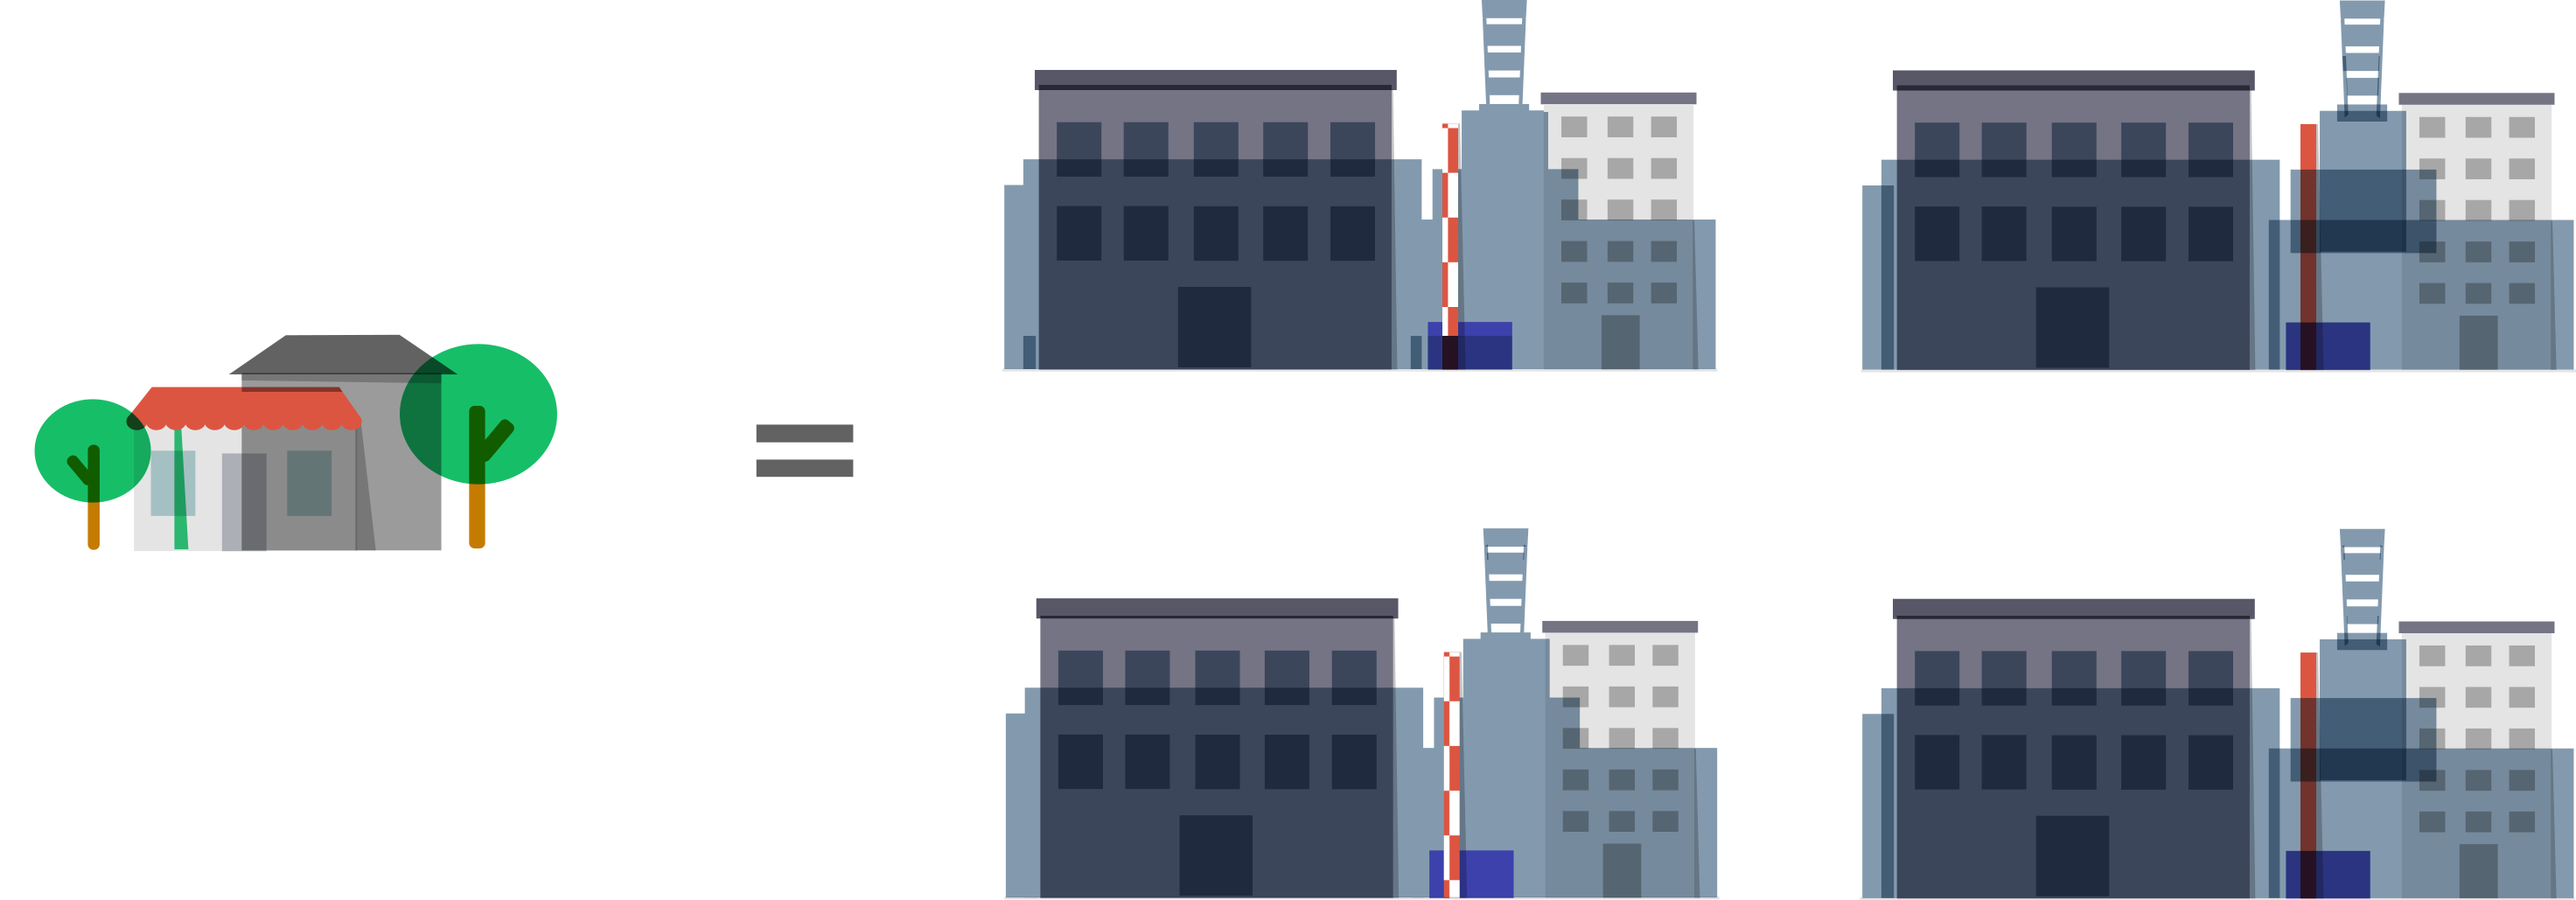
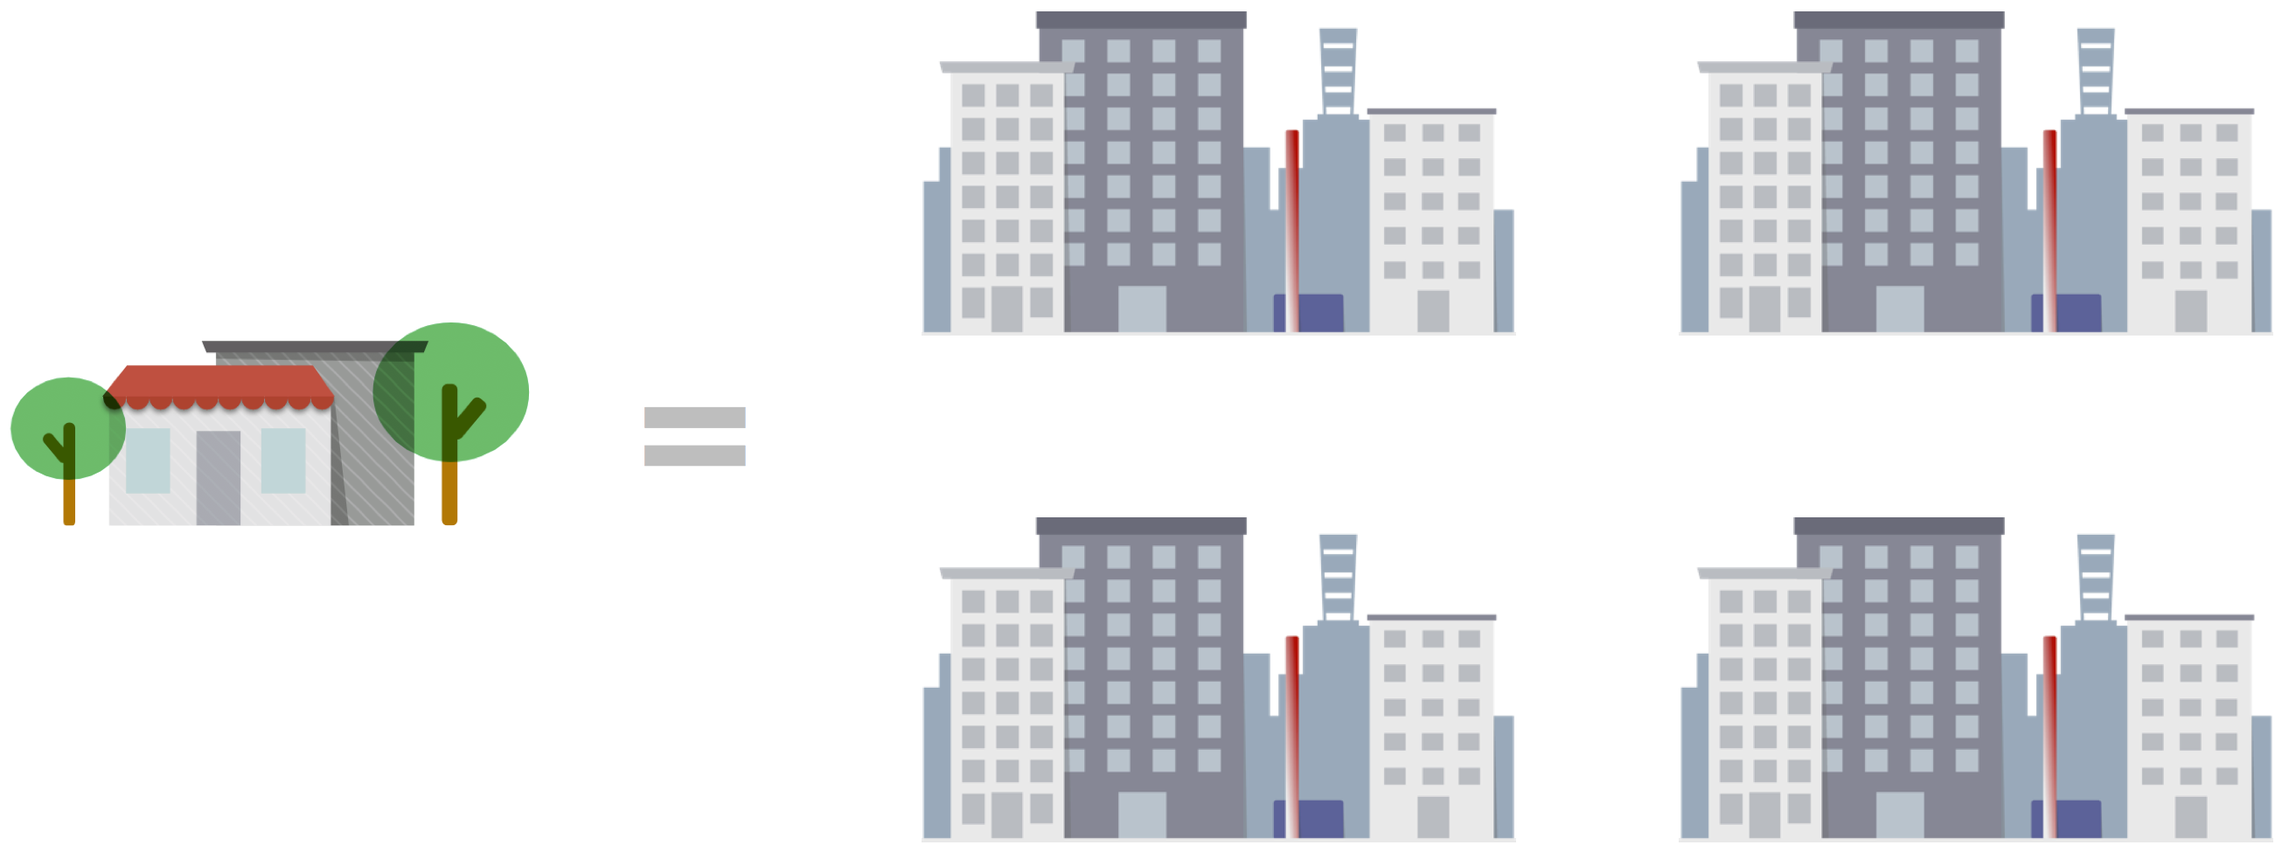
image replacements and minor layout tweaks

diff --git a/TheGhetto.html b/TheGhetto.html
@@ -88,7 +88,7 @@
 
 			<div class="intro pa0 mv4 mh0">
 				
-				<div class="opening-statement tc-ns lh-title pa0 ma0">
+				<div class="opening-statement center measure-wide lh-title pa0 ma0">
 					<h2 class="f4 f2-ns pa0 ma0">
 						Who makes a neighborhood ghetto?
 					</h2>
@@ -108,7 +108,7 @@
 				
 				<div class="bg-light-gray pa4 pv4-ns mh0 mh5-ns mv4">
 					<div class="lh-copy center measure-wide ">
-						<p class="f4 f3-ns pa0 pv2-ns ma0">
+						<p class="tc f4 f3-ns pa0 pv2-ns ma0">
 							A typical reason for the lack in public investment is a lack of money.
 						</p>
 					</div>
@@ -169,7 +169,7 @@
 				</div>
 				<img src="images/FourDowntowns.png"
 						 alt="A graphic of 1 South of Downtown neighborhood next to 4 Downtowns" 
-						 class="w-100 mb3">
+						 class="w-100 pt4 mb3">
 			</div>
 
 			<div class="outro pa0 mv4 mh0">
@@ -180,7 +180,7 @@
 					</h1>
 				</div>
 
-				<div class="opening-statement tc-ns lh-copy pa0 ma0">
+				<div class="opening-statement center measure-wide lh-copy pa0 ma0">
 					<h2 class="f4 f2-ns pa0 ma0">
 						The residents’ return on investment?
 					</h2>
@@ -194,7 +194,7 @@
 				
 				<div class="bg-light-gray pa4 pv4-ns mh0 mh5-ns mv4">
 					<div class="lh-copy center measure-wide ">
-						<p class="f4 f3-ns pa0 pv2-ns ma0">
+						<p class="tc f4 f3-ns pa0 pv2-ns ma0">
 							Despite the lack of mega-projects, private investments are still being made South of Downtown.
 						</p>
 					</div>
@@ -251,7 +251,7 @@
 		<div class="center pa0 ma0">
 			
 			<div class="tc pv0 ma0">
-				<p class="link b f4 f3-ns fw4 tracked mid-gray dim ma0 pa0">LIFE South of Downtown</p>
+				<p class="link b f4 f3-ns fw4 tracked mid-gray ma0 pa0">LIFE South of Downtown</p>
 			</div>
 			
 			<div class="tc pa0 mv3 mh0">

diff --git a/TheCrime.html b/TheCrime.html
@@ -202,7 +202,7 @@
 					</h1>
 				</div>
 				
-				<div class="opening-statement tc-ns lh-title pa0 ma0">
+				<div class="opening-statement center measure-wide lh-title pa0 ma0">
 					<h2 class="f4 f2-ns pa0 ma0">
 						Perception is the problem, not crime.
 					</h2>
@@ -274,7 +274,7 @@
 		<div class="center pa0 ma0">
 			
 			<div class="tc pv0 ma0">
-				<p class="link b f4 f3-ns fw4 tracked mid-gray dim ma0 pa0">LIFE South of Downtown</p>
+				<p class="link b f4 f3-ns fw4 tracked mid-gray ma0 pa0">LIFE South of Downtown</p>
 			</div>
 			
 			<div class="tc pa0 mv3 mh0">

diff --git a/index.html b/index.html
@@ -171,7 +171,7 @@
 		<div class="center pa0 ma0">
 			
 			<div class="tc pv0 ma0">
-				<p class="link b f4 f3-ns fw4 tracked mid-gray dim ma0 pa0">LIFE South of Downtown</p>
+				<p class="link b f4 f3-ns fw4 tracked mid-gray ma0 pa0">LIFE South of Downtown</p>
 			</div>
 			
 			<div class="tc pa0 mv3 mh0">
